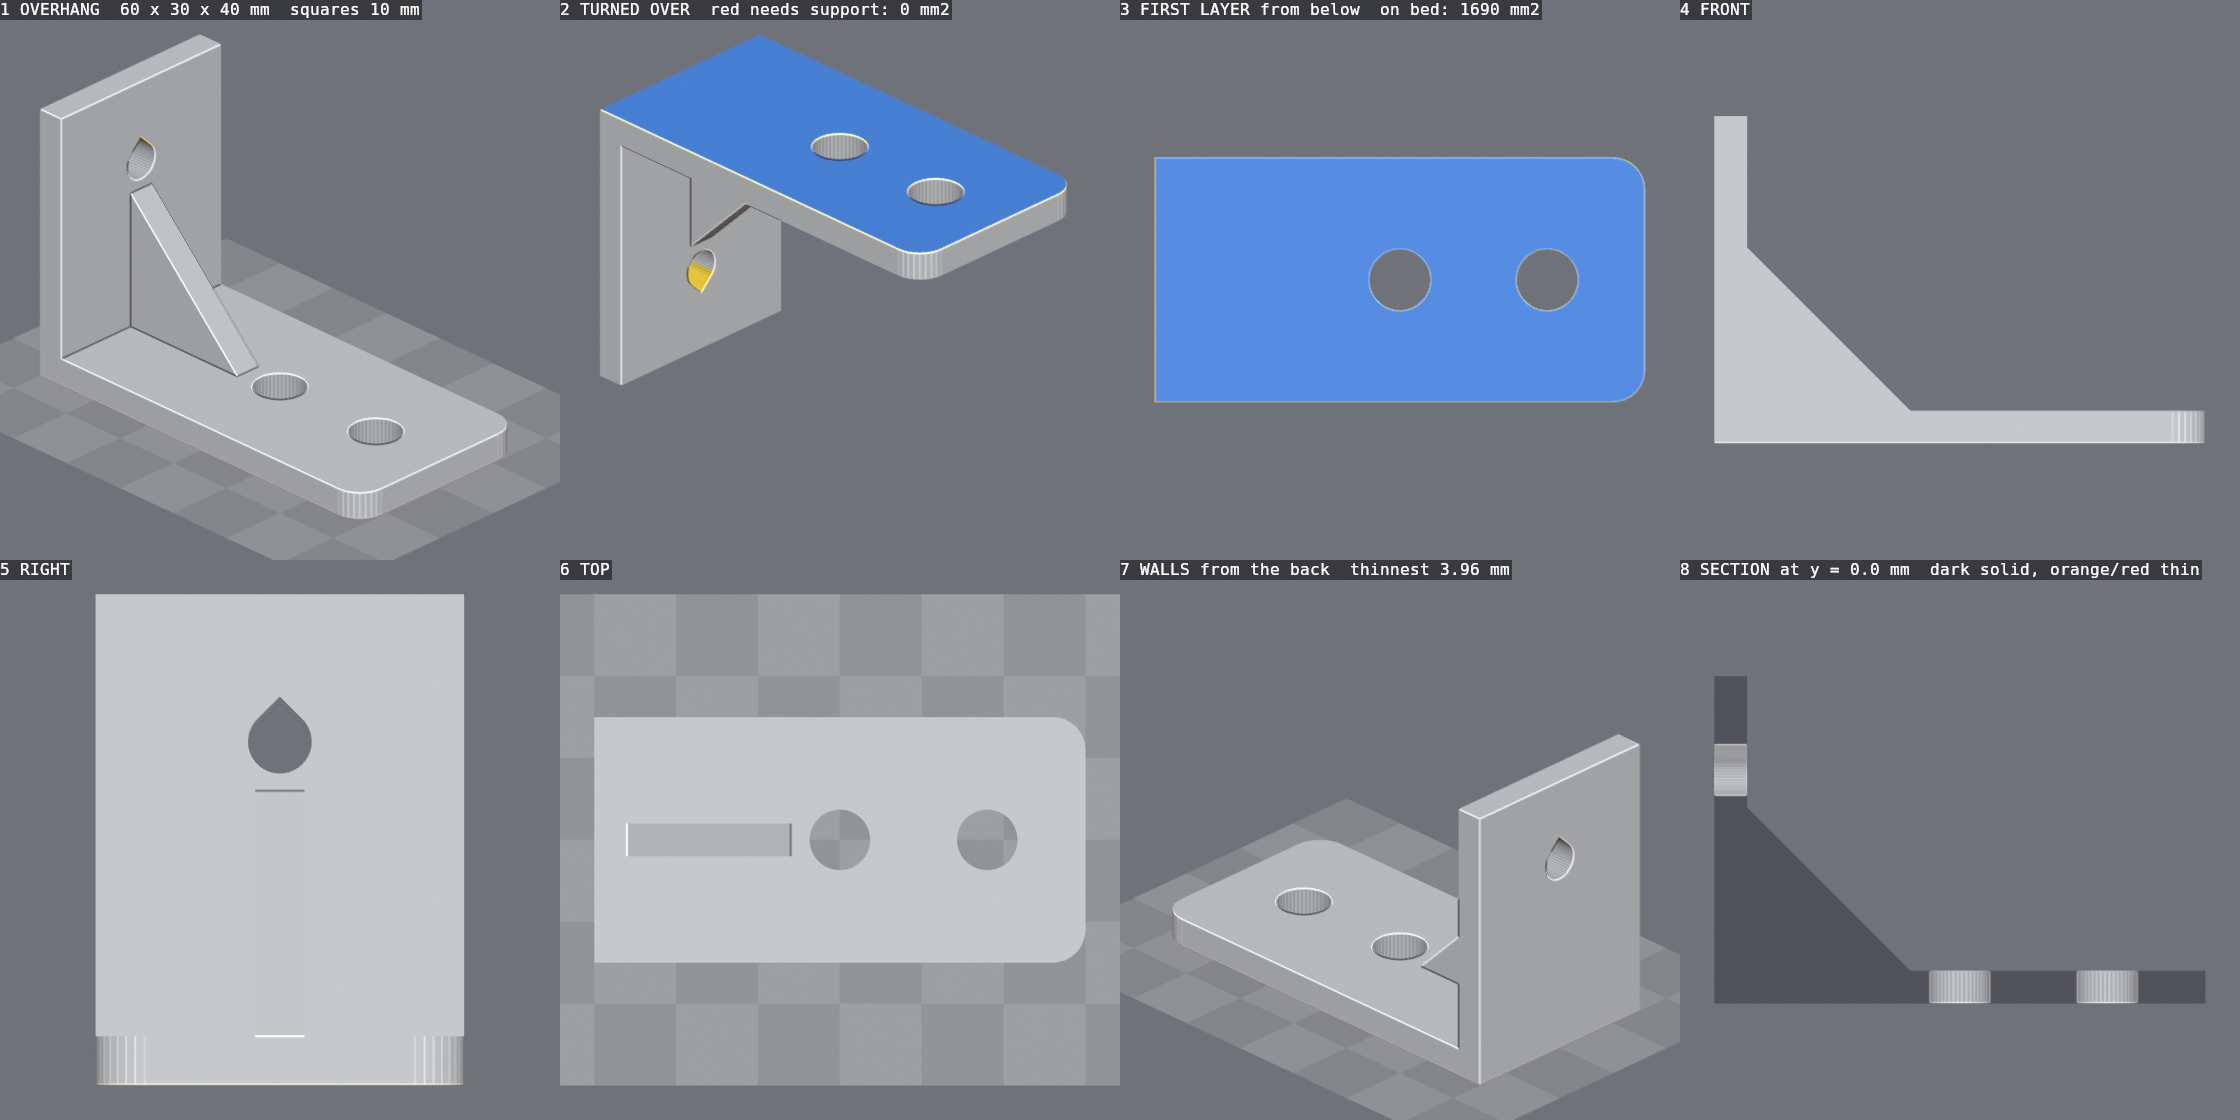
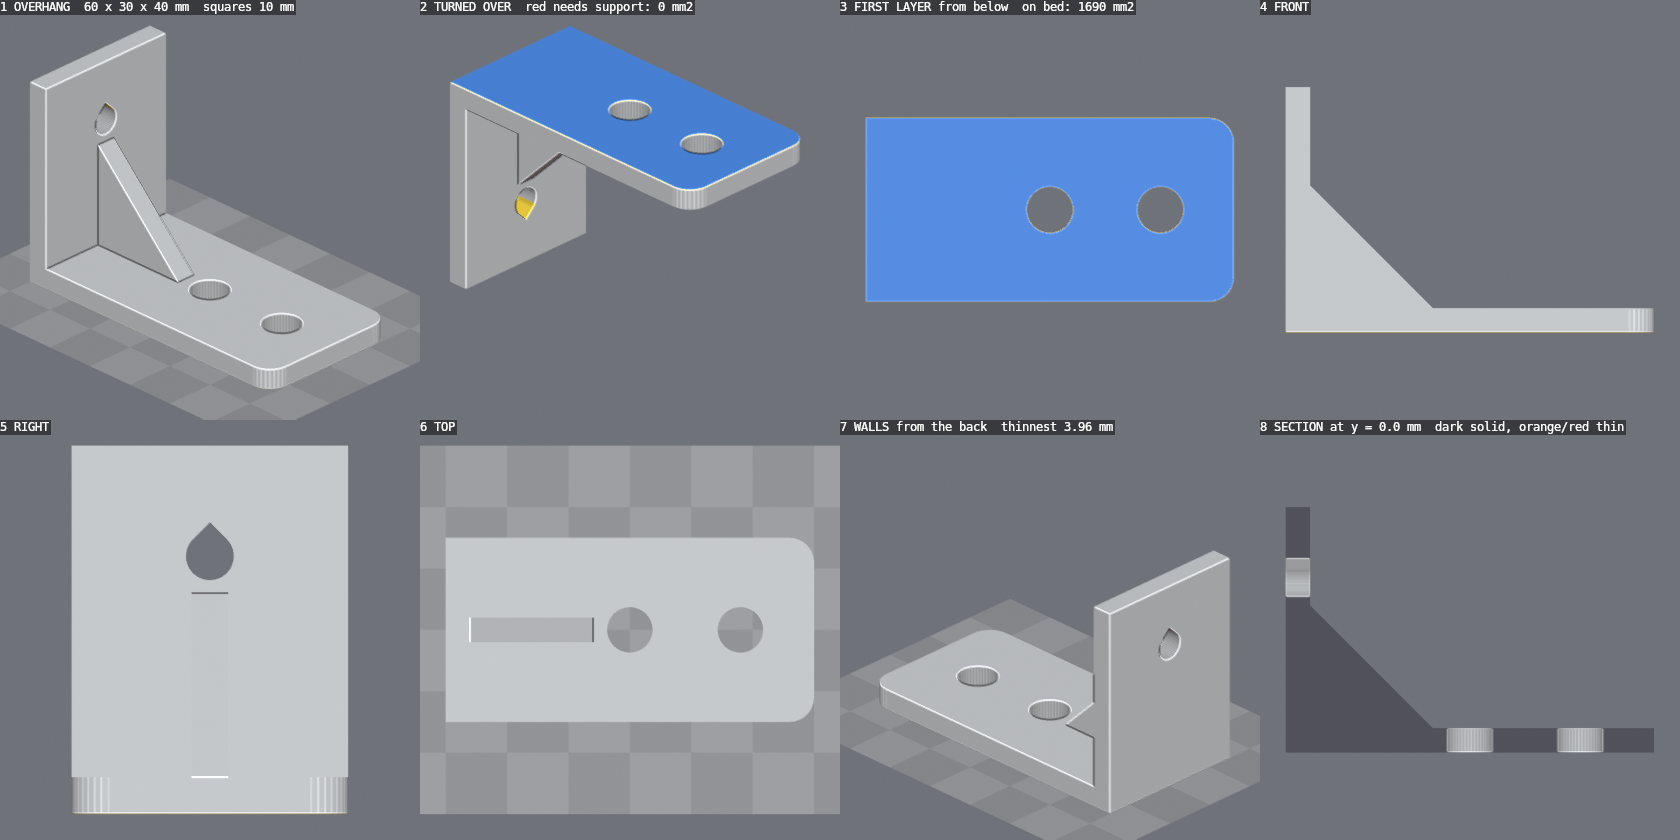
Add the MIT licence and a getting-started README
The README now leads with what to ask for and a four-step start (install
Blender, clone, self-test, ask), shows a clean and a flawed review board,
explains what the check covers and how real slicer times are obtained, and
states plainly what has and has not been tested.

Claude-Session: https://claude.ai/code/session_01LXbCnmQeFVNjp98NRjAH5Y

diff --git a/scripts/self_test.py b/scripts/self_test.py
@@ -5,7 +5,7 @@ Run it after installing the skill, after a Blender update, or after changing a s
   python scripts/blender_run.py self_test.py
 
 It ignores the saved printer profile, writes only to a temporary folder, and exits 1 if any
-expectation fails. Takes about half a minute.
+expectation fails. Takes a few seconds.
 """
 import os
 import shutil

diff --git a/README.md b/README.md
@@ -1,69 +1,197 @@
-# 3d-print-modeling
+# 3D Print Modeling: an agent skill
 
-An agent skill for designing 3D models that print well and efficiently: little or no support,
-short print time, less material, correct fits, single or multi-colour. It works for any kind of
-model (brackets, enclosures, replacement parts, figurines, miniatures, terrain, props,
-print-in-place toys, vases) and for making existing meshes printable (game assets, sculpts,
-scans, AI-generated meshes).
+Ask your coding agent for a part, and get a model that actually prints: no supports where they
+can be designed out, the right way up, walls and holes sized for your nozzle, and a file your
+slicer opens ready to go.
 
-The skill asks once for your printer, how many colours it prints and which materials you use,
-saves the answers, and never asks again. Until told otherwise it assumes a Bambu Lab P1S.
+This is a skill for agents that can run commands on your computer, such as
+[Claude Code](https://claude.com/claude-code) or Codex. It gives the agent a method for
+designing printable models and a set of tools, run in headless [Blender](https://www.blender.org),
+to check its own work before handing you a file.
 
-![Review board for the template bracket](docs/review-board.png)
+![Review board for a bracket that prints with no support](docs/review-board.png)
+
+*The agent renders a board like this for every model and looks at it: overhangs, the first
+layer, wall thickness and a section. This bracket needs no support.*
+
+## What you can ask for
+
+- "Design a wall bracket for two M4 screws that holds a 25 mm pipe."
+- "Make a box with a snap-fit lid for a 70 × 50 mm circuit board, printed in PETG."
+- "This STL needs supports everywhere. Can you make it print better?"
+- "Turn this game model into a 120 mm figurine I can print."
+- "Make a name tag with the letters inlaid in a second colour."
+- "Split this helmet so it fits my printer, with pins to line the halves up."
+
+It works for any kind of model: brackets, enclosures, replacement parts, figurines, miniatures,
+terrain, props, print-in-place toys, vases. It covers filament (FDM), resin and powder (SLS)
+printers.
+
+## Get started
+
+**1. Install [Blender](https://www.blender.org/download/) 5.0 or newer.** No add-ons needed.
+You also need Python 3.9 or newer, which most systems already have.
+
+**2. Put the skill in your agent's skills folder.**
+
+Claude Code:
+
+```
+git clone https://github.com/kshaham/3d-print-modeling-skill ~/.claude/skills/3d-print-modeling
+```
+
+Codex:
+
+```
+git clone https://github.com/kshaham/3d-print-modeling-skill ~/.codex/skills/3d-print-modeling
+```
+
+On Windows, `~` is your user folder, for example `C:\Users\you\.claude\skills\3d-print-modeling`.
+
+**3. Check that it works** (a few seconds):
+
+```
+cd ~/.claude/skills/3d-print-modeling
+python scripts/blender_run.py self_test.py
+```
+
+It should end with `SELF-TEST PASS  30 of 30`. If it says Blender was not found, tell it where
+Blender is once:
+
+```
+python scripts/blender_run.py --set-blender "/path/to/blender"
+```
+
+**4. Start a new session with your agent and ask for something printable.** The first time, it
+asks three questions and remembers the answers:
+
+1. Which 3D printer do you have?
+2. How many colours can it print at once?
+3. Which materials do you print with?
+
+Until you answer, it assumes a Bambu Lab P1S with a 0.4 mm nozzle and PLA.
+
+## What you get back
+
+- `part.3mf` (and `part.stl` if you want it), in millimetres, already turned the way it should
+  print and sitting on the bed.
+- `part.json`: size, parts and colours, the check results and the slicer settings that matter.
+- A review board image like the one above.
+- A short note: orientation, whether supports are needed and why, material, settings, and the
+  expected time and filament.
+
+## How it keeps models printable
+
+The agent does not just draw a shape and export it. For every model it runs a printability
+check and fixes what the check finds:
+
+```
+PASS  fdm on Bambu Lab P1S  60 x 30 x 40 mm  892 triangles  1 part(s)  1 shell(s)  11.86 cm3
+  bed contact 1690 mm2   support needed on 0 mm2 (0.0 cm3)   bridges 0   mid-air starts 0
+  thinnest wall 3.96 mm   rough estimate 9.0 g pla, 25 min, 200 layers
+```
+
+The check covers:
+
+- **Is it a real solid?** Holes in the mesh, inside-out or overlapping pieces, wrong units.
+- **Does it fit?** Against your printer's build volume.
+- **Will each layer have something under it?** Overhangs past 45°, bridges that are too long
+  for the material, and parts that start in mid-air.
+- **Is anything too thin, or too close?** Walls below what your nozzle can print, and gaps so
+  small that moving parts would fuse.
+- **Will it stay on the bed?** First-layer contact, tall narrow parts, centre of mass.
+- **Resin and powder:** sealed cavities that would trap resin or powder.
+- **Colour:** how many layers change filament, which is what makes multi-colour prints slow.
+
+Here is the same board for a deliberately bad model. Red needs support, orange is a wall too
+thin to print well, blue is the only part touching the bed:
+
+![Review board for a flawed model](docs/review-flawed.png)
+
+When a problem can be designed away, the agent does that rather than adding supports: a 45°
+chamfer under a ledge, a teardrop instead of a round hole on its side, a different way up, or a
+split into two parts that each print flat.
+
+## Real print times from your slicer
+
+If Bambu Studio, OrcaSlicer or PrusaSlicer is installed, the agent slices the finished model
+with your printer's own profile and quotes real numbers:
+
+```
+python scripts/print_slice.py out/wall-bracket.3mf --compare-supports
+
+SLICED  wall-bracket.3mf  with bambu-studio.exe for Bambu Lab P1S 0.4 nozzle, 0.20mm Standard @BBL X1C, Bambu PLA Basic @BBL P1S 0.4 nozzle
+  no supports    22 min  8.4 g  2.77 m  200 layers
+  with supports  22 min  8.4 g  2.77 m  200 layers
+  supports cost 0 min and 0.0 g
+```
+
+Multi-colour models are exported so that Bambu Studio opens them as one object with a filament
+already assigned to each colour.
+
+Without a slicer the agent still gives an estimate, and says that it is a rough one.
+
+## Using the tools yourself
+
+Everything the agent uses also works from a terminal, on any model file
+(`.stl .3mf .obj .ply .glb .gltf .blend`):
+
+| Command | What it does |
+| --- | --- |
+| `python scripts/blender_run.py print_check.py model.stl` | printability report; exit code 1 if the model fails |
+| `python scripts/blender_run.py print_orient.py model.stl --top 5` | ranks the ways the model can sit on the bed |
+| `python scripts/blender_run.py print_orient.py model.stl --apply best.3mf` | writes the best orientation |
+| `python scripts/blender_run.py print_review.py model.stl review.png` | renders the review board |
+| `python scripts/print_slice.py model.3mf --compare-supports` | real time and filament from your slicer |
+| `python scripts/printer_profile.py --show` | the saved printer, colours and materials |
+| `python scripts/printer_profile.py --set printer="Prusa MK4S" colors=1 materials=PLA,PETG` | change them |
+| `python scripts/printer_profile.py --printers` | printers known by name |
+| `python scripts/blender_run.py assets/author_template.py --review --out out` | builds the example bracket |
+| `python scripts/blender_run.py assets/author_fit_gauge.py --out out` | builds a clearance gauge for your printer |
+
+Add `--material petg`, `--nozzle 0.6`, `--process resin` and similar to any check to override
+the saved printer.
 
 ## What is inside
 
 | Path | What it is |
 | --- | --- |
 | `SKILL.md` | the instructions the agent follows |
-| `references/` | design rules per process, efficiency, functional parts, multi-colour, materials, converting models, playbooks per model type, slicer hand-off |
-| `scripts/print_check.py` | printability gate: closed solid, size, wall thickness, overhangs, bridges, mid-air starts, bed contact, cavities, rough time and mass |
-| `scripts/print_orient.py` | ranks the ways a model can sit on the bed |
-| `scripts/print_review.py` | renders the eight-tile review board above |
-| `scripts/print_export.py` | writes 3MF and binary STL in millimetres, with a manifest; multi-colour models open in Bambu Studio with a filament already assigned to each part |
-| `scripts/print_slice.py` | slices with Bambu Studio, OrcaSlicer or PrusaSlicer and reports real time, grams and filament changes |
-| `scripts/printkit.py` | helpers for building printable solids from a script |
-| `scripts/printer_profile.py` | the saved printer, colours and materials |
-| `scripts/blender_run.py` | finds Blender and runs any of the above headless |
-| `scripts/self_test.py` | 30 checks that the tools work on your machine |
-| `assets/author_template.py` | a complete example part to copy |
-| `assets/author_fit_gauge.py` | a clearance gauge to print once per printer and material |
+| `references/` | design rules for each process, printing efficiently, functional parts and fits, multi-colour, materials, converting existing models, playbooks per kind of model, slicer hand-off |
+| `scripts/` | the checker, orientation ranker, review renderer, exporter, slicer driver, printer profile, modeling helpers and self-test |
+| `assets/` | a complete example part to copy, and the clearance gauge |
 
-## Requirements
+## What has and has not been tested
 
-- [Blender](https://www.blender.org/download/) 5.0 or newer (developed on 5.2). No add-ons.
-- Python 3.9 or newer to launch it.
-- Optional: Bambu Studio, OrcaSlicer or PrusaSlicer, for real print times. Tested with Bambu
-  Studio 2.9 and PrusaSlicer 2.9 on Windows; the OrcaSlicer path is untested.
+- Developed and tested on Windows with Blender 5.2, Bambu Studio 2.9 and PrusaSlicer 2.9.
+- macOS and Linux should work (the tools look for Blender and the slicers in their usual
+  places there) but have not been tested. Reports are welcome.
+- OrcaSlicer takes the same path as Bambu Studio but has not been tested.
+- The multi-colour hand-off was verified through Bambu Studio's command line, not by hand in
+  its window.
+- The checker's own time and mass figures are estimates for comparing two versions of a design.
+  Use the slicer's numbers when the time matters.
+- Models are built as meshes in Blender. For precise mechanical parts that is usually enough;
+  the skill says when a CAD kernel would serve better.
+- Nothing here replaces a test print. Printed parts are not certified for safety-critical use.
 
-## Install
+## Troubleshooting
 
-Clone into your agent's skills folder. For Claude Code:
+| Problem | Fix |
+| --- | --- |
+| `Blender not found` | `python scripts/blender_run.py --set-blender "/path/to/blender"` |
+| `no slicer found` | install your slicer, or `python scripts/print_slice.py --set-slicer "/path/to/slicer"` |
+| The agent does not use the skill | check the folder name and location, then start a new session; ask for it by name ("use the 3d-print-modeling skill") |
+| It asks about your printer again | `python scripts/printer_profile.py --show` should list your printer; if not, set it as in the table above |
+| A check result looks wrong | run `python scripts/blender_run.py self_test.py` and open an issue with its output and the model |
 
-```
-git clone https://github.com/kshaham/3d-print-modeling-skill ~/.claude/skills/3d-print-modeling
-```
+## Contributing
 
-For Codex, clone into `~/.codex/skills/3d-print-modeling`. Then ask for something printable,
-for example "design a wall bracket for two M4 screws that prints without support".
+Issues and pull requests are welcome, especially test reports from macOS, Linux, OrcaSlicer and
+other printers. Run the self-test before and after a change.
 
-## Using the tools directly
+## Licence and credits
 
-```
-python scripts/printer_profile.py --set printer="Prusa MK4S" colors=1 materials=PLA,PETG
-python scripts/blender_run.py print_check.py model.stl
-python scripts/blender_run.py print_orient.py model.stl --top 5
-python scripts/blender_run.py print_review.py model.stl review.png
-python scripts/blender_run.py assets/author_template.py --review --out out
-python scripts/print_slice.py out/wall-bracket.3mf --compare-supports
-python scripts/blender_run.py self_test.py
-```
-
-Inputs: `.stl .3mf .obj .ply .glb .gltf .blend`. The checker's time, mass and cost figures are
-rough estimates for comparing two versions of a design; `print_slice.py` gives real ones.
-
-## Credits
-
-Blender discovery in `scripts/blender_run.py` is adapted from
+[MIT](LICENSE). Blender discovery in `scripts/blender_run.py` is adapted from
 [EL4CTEO/blender-skills](https://github.com/EL4CTEO/blender-skills) (MIT); see
 `THIRD_PARTY_NOTICES.md`.
